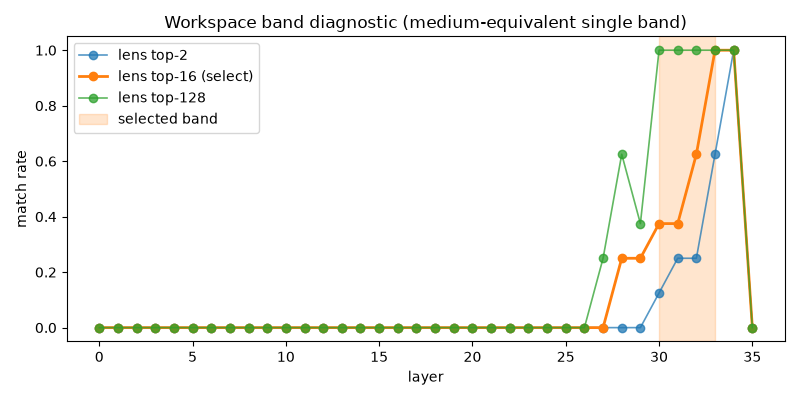
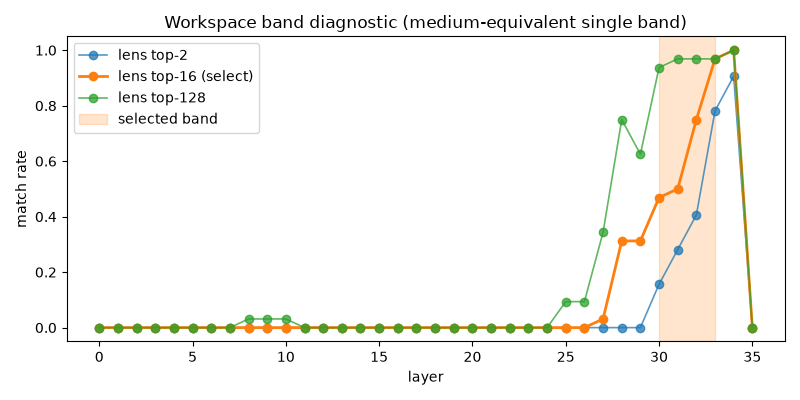
Save Qwen3-4B calibration: gsm8k/math500 budgets and n=32 band.
Skip AIME for now; add per-gen calibrate progress logging.

Changed region(s): [[0.6875, 0.09, 0.9375, 0.84], [0.2812, 0.78, 0.375, 0.84], [0.8125, 0.66, 0.8438, 0.78]]

diff --git a/src/jspace/token_budgets.py b/src/jspace/token_budgets.py
@@ -4,14 +4,14 @@ from __future__ import annotations
 
 import json
 import math
+import time
 from dataclasses import asdict, dataclass
 from pathlib import Path
 from typing import Any
 
-from jspace.ablation import AblationConfig
 from jspace.config import Settings
 from jspace.data import Problem, load_aime, load_gsm8k, load_math500
-from jspace.generate import generate
+from jspace.generate import generate_clean
 from jspace.load import LoadedModel
 
 # Conservative fallbacks before any calibration run (direct << CoT for Qwen3 thinking).
@@ -158,18 +158,41 @@ def _measure_clean_lengths(
 ) -> tuple[list[int], list[int]]:
     direct_lengths: list[int] = []
     cot_lengths: list[int] = []
-    for problem in problems:
+    n_problems = len(problems)
+    total = max(1, n_problems * 2)
+    done = 0
+    t0 = time.perf_counter()
+    for i, problem in enumerate(problems):
         for thinking, bucket in ((False, direct_lengths), (True, cot_lengths)):
-            result = generate(
+            mode = "cot" if thinking else "direct"
+            done += 1
+            print(
+                f"[calibrate] start {problem.dataset} "
+                f"problem={i + 1}/{n_problems} mode={mode} "
+                f"step={done}/{total} probe_ceiling={probe_ceiling}",
+                flush=True,
+            )
+            t1 = time.perf_counter()
+            # Length-only probe: skip score tensors (huge VRAM/time at 32k).
+            result = generate_clean(
                 loaded,
                 problem.dataset,
                 problem.prompt,
                 enable_thinking=thinking,
                 max_new_tokens=probe_ceiling,
                 seed=seed,
-                ablation=AblationConfig(kind="none"),
+                capture_logprobs=False,
             )
-            bucket.append(len(result.token_ids))
+            n_tokens = len(result.token_ids)
+            bucket.append(n_tokens)
+            print(
+                f"[calibrate] done  {problem.dataset} "
+                f"problem={i + 1}/{n_problems} mode={mode} "
+                f"tokens={n_tokens} hit_cap={result.hit_token_cap} "
+                f"gen_sec={time.perf_counter() - t1:.1f} "
+                f"elapsed_sec={time.perf_counter() - t0:.1f}",
+                flush=True,
+            )
     return direct_lengths, cot_lengths
 
 
@@ -219,6 +242,13 @@ def calibrate_token_budgets(
             cot=_apply_multiplier(cot_p95, mult, cap_ceiling, floor_cot),
             direct_p95_observed=direct_p95,
             cot_p95_observed=cot_p95,
+        )
+        print(
+            f"[calibrate] dataset={dataset} "
+            f"direct_lens={direct_lens} cot_lens={cot_lens} "
+            f"direct_p95={direct_p95} cot_p95={cot_p95} "
+            f"caps=({calibrated[dataset].direct}, {calibrated[dataset].cot})",
+            flush=True,
         )
 
     return TokenBudgetProfile(

diff --git a/src/jspace/generate.py b/src/jspace/generate.py
@@ -90,8 +90,9 @@ def generate_clean(
     enable_thinking: bool,
     max_new_tokens: int,
     seed: int,
+    capture_logprobs: bool = True,
 ) -> GenerationResult:
-    """Greedy generate without ablation; capture per-token logprobs."""
+    """Greedy generate without ablation; optionally capture per-token logprobs."""
     torch.manual_seed(seed)
     text = build_chat_text(
         loaded.tokenizer, dataset, problem, enable_thinking=enable_thinking
@@ -105,13 +106,13 @@ def generate_clean(
         max_new_tokens=max_new_tokens,
         do_sample=False,
         return_dict_in_generate=True,
-        output_scores=True,
+        output_scores=capture_logprobs,
         pad_token_id=loaded.tokenizer.pad_token_id,
     )
     seq = output.sequences[0]
     gen_ids = seq[prompt_len:].tolist()
     logprobs: list[float] = []
-    if output.scores:
+    if capture_logprobs and output.scores:
         for step_scores, token_id in zip(output.scores, gen_ids):
             log_p = torch.log_softmax(step_scores[0], dim=-1)[token_id]
             logprobs.append(float(log_p.item()))
@@ -191,6 +192,7 @@ def generate_with_ablation(
             enable_thinking=enable_thinking,
             max_new_tokens=max_new_tokens,
             seed=seed,
+            capture_logprobs=True,
         )
 
     torch.manual_seed(seed)
